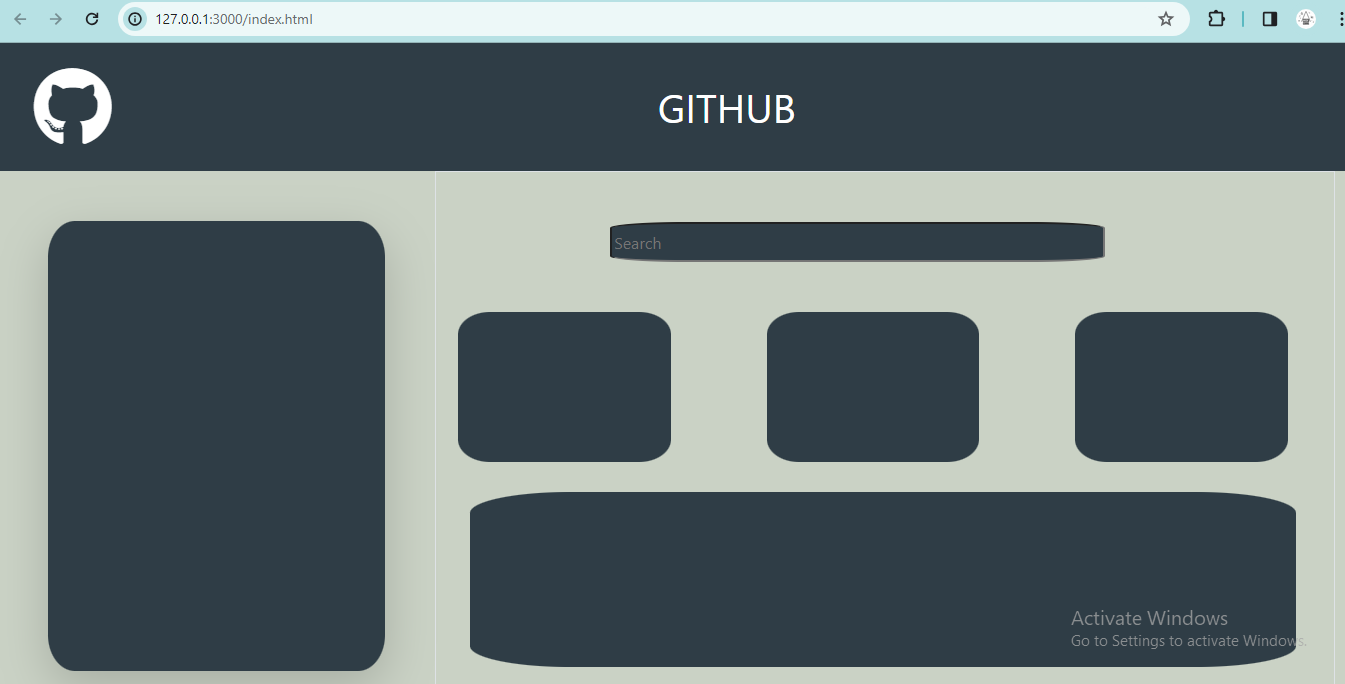
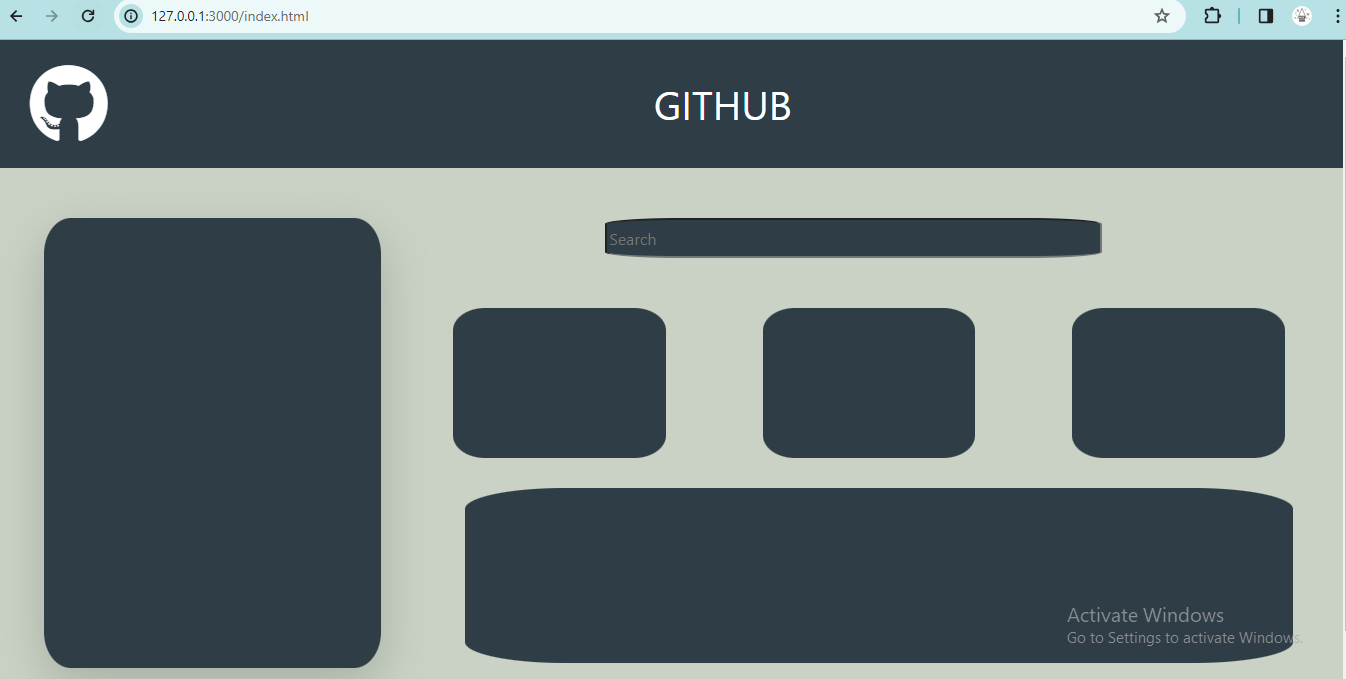
Github profile page task is completed

diff --git a/index.html b/index.html
@@ -81,7 +81,7 @@
 
             </div>
 
-            <div class="col-8 border w-74">
+            <div class="col-8 w-74">
                 <div class="row container-fluid">
                     <div class="col-12">
                         <input type="text" placeholder="Search">
